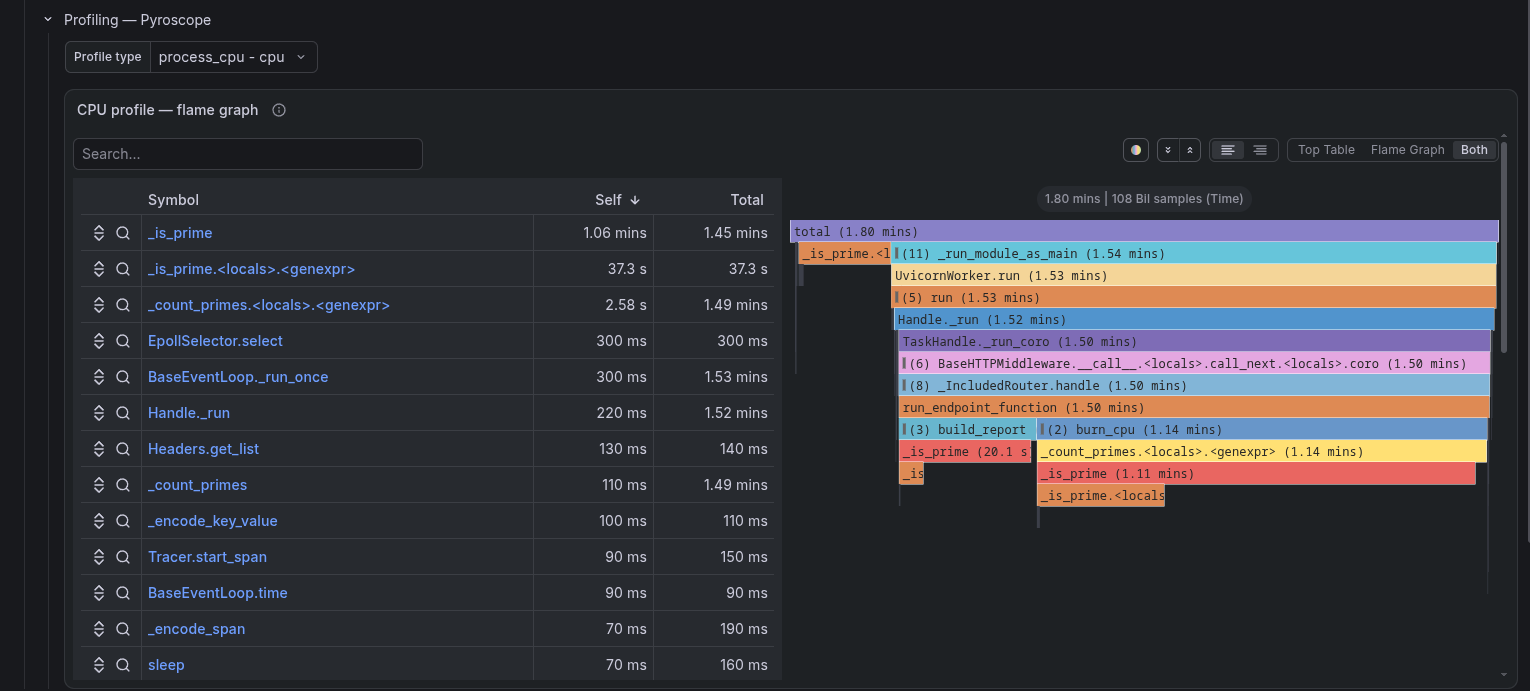
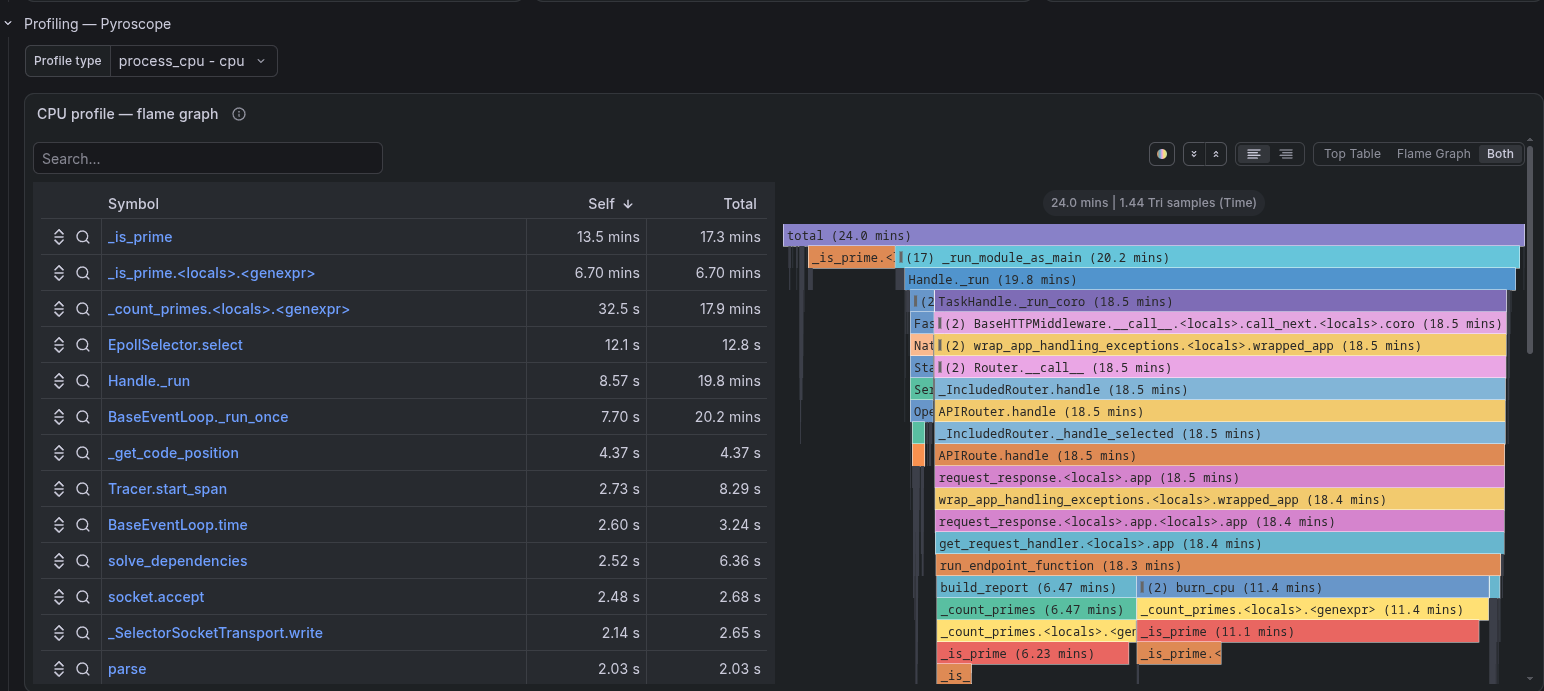
docs: screenshots of the dashboard as it is, and the links it has now
Every screenshot taken again under traffic shaped differently per route; the slow traces of a route replace the exemplar. The signal table lists the Routes drill-down, status class and exception links; the traffic knobs are named.

diff --git a/README.md b/README.md
@@ -241,9 +241,11 @@ flowchart LR
 | a log line, the browser's included | its trace · every line of its request | `trace_id` · `request_id` in structured metadata |
 | a browser line | every trace of that browser session | `session_id` → `{span.session.id="…"}` |
 | a request key from a header or a complaint | its trace | `{span.http.response.header.x_request_id="…"}` |
-| a route on a latency or traffic panel | its traces · its slow traces | panel link → TraceQL with the route and the `Slow trace` threshold |
-| a route on the 4xx / 5xx panels | its failed traces | panel link → TraceQL with the status |
-| an exception type | its log lines | panel link → LogQL with `error_type` |
+| a route in the Routes table | the whole dashboard for that route · its traces | `Route` set on the same dashboard · TraceQL with the route |
+| a route on the traffic or latency panel | its traces · its slow traces | panel link → TraceQL with the route and the `Slow trace` threshold |
+| a status class or a route with its code | the traces with that class · with that code on that route | panel link → TraceQL with the status code |
+| an exception on a route | its log lines and stacks · its traces | panel link → LogQL with `error_type` and `route` · TraceQL with `event.exception.type` |
+| an exception message | its log lines | panel link → LogQL with the message |
 | a span | its logs · its CPU profile · the rate and P95 of its operation | Tempo data source links |
 
 **① A log line** links its trace and every line of its request.
@@ -255,7 +257,7 @@ flowchart LR
 ![The log line and its trace](docs/screenshots/09-log-and-trace.png)
 
 **③ A span** links its logs, its profile and the metrics of its operation.
-**④ Its profile** is the CPU of exactly that request.
+**④ Its profile** is the CPU of exactly that request — here one of `/api/cpu`.
 
 > [!NOTE]
 > Span profiles label samples by thread. A request that holds the event loop, like `/api/cpu`,
@@ -527,7 +529,7 @@ that lists the ones it does; `just` alone lists the commands.
 | `just dc up` · `down` · `ps` · `logs` | the stack in Compose; `just docker-compose …` is the same |
 | `just k3d up` · `down` · `ps` · `logs` | the stack in a k3d cluster |
 | `just dc logs api grafana` · `just k3d logs api` | the logs of chosen services only |
-| `just traffic` | requests at the running stack, either one |
+| `just traffic` | requests at the running stack, either one: `RATE`, `DURATION`, and the mix — `CPU_PERCENT`, `REPORT_PERCENT`, `CPU_BELOW_MAX`; `API_WORKERS=8 just dc up` for a heavier one |
 | `just run gunicorn` | the application outside Docker, against the running stack |
 
 ## 🧱 Stack
